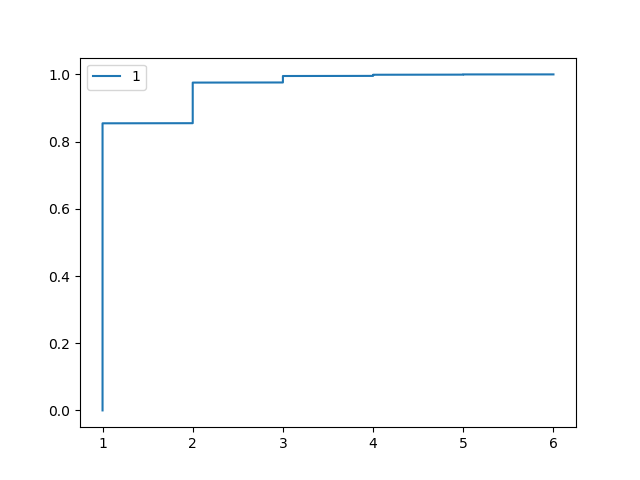
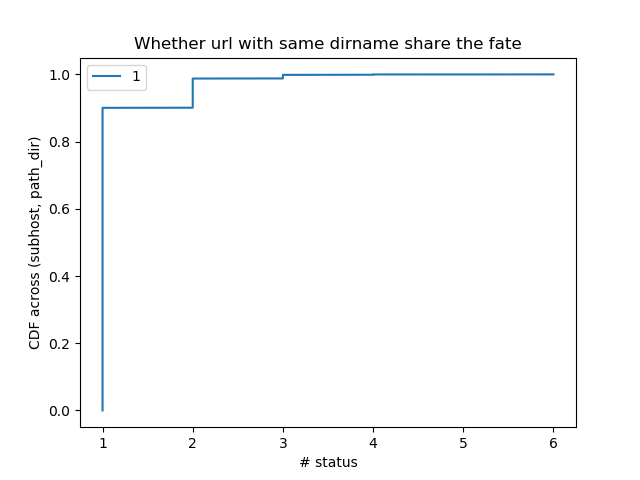
update fate figure

diff --git a/broken_pages/counts.py b/broken_pages/counts.py
@@ -12,6 +12,7 @@ import matplotlib.pyplot as plt
 import whois
 import datetime
 import numpy as np
+import json
 
 sys.path.append('../')
 import config
@@ -591,10 +592,10 @@ def dirname_fate():
         urls = db.url_status_implicit_broken.find({"hostname": host['_id']})
         for url in urls:
             up = urlparse(url['url'])
-            path, query = up.path, up.query
+            subhost, path, query = up.netloc, up.path, up.query
             if path == '': path = '/'
             dirname = os.path.dirname(path)
-            host_fate[dirname].append(url_utils.status_categories(url['status'], url['detail']))
+            host_fate["{}|{}".format(subhost, dirname)].append(url_utils.status_categories(url['status'], url['detail']))
         dir_count = {}
         for dirname, statuss in host_fate.items():
             if len(statuss) >= 3:
@@ -604,8 +605,15 @@ def dirname_fate():
     for hostname, dir_count in fate.items():
         for dirname, statuss in dir_count.items():
             fate_list.append(len(statuss))
+    fate = {h: {d: list(s) for d, s in ds.items() if len(s) > 1} for h, ds in fate.items()}
+    fate = {h: ds for h, ds in fate.items() if len(ds) > 0}
+    json.dump(fate, open('fate.json', 'w+'))
     print(len(fate_list))
-    plot.plot_CDF([fate_list], show=False, savefig='fig/fate.png')
+    plot.plot_CDF([fate_list], show=False)
+    plt.xlabel("# status")
+    plt.ylabel("CDF across (subhost, path_dir)")
+    plt.title("Whether url with same dirname share the fate")
+    plt.savefig('fig/fate.png')
 
 
 

diff --git a/search/broken_search.py b/search/broken_search.py
@@ -27,6 +27,7 @@ idx = config.HOSTS.index(socket.gethostname())
 PS = crawl.ProxySelector(config.PROXIES)
 db = MongoClient(config.MONGO_HOSTNAME).web_decay
 counter = mp.Value('i', 0)
+q_in = mp.Queue()
 
 def get_wayback_cp(url, year):
     """
@@ -145,11 +146,11 @@ def crawl_realweb_wrapper(NUM_THREADS=10):
     Crawl the searched results from the db.search
     Update each record with html (byte) and content
     """
-    q_in = mp.Queue()
     urls = db.search.find({'html': {"$exists": False}})
-    urls = list(urls)
+    urls = sorted(list(urls), key=lambda x: x['url'] + str(x['from']))
     length = len(urls)
-    print(length)
+    print(length // len(config.HOSTS))
+    urls = urls[idx*length//len(config.HOSTS): (idx+1)*length//len(config.HOSTS)]
     random.shuffle(urls)
     for url in urls:
         q_in.put((url['url'], url['from']))
@@ -228,4 +229,4 @@ def calculate_topN():
 
 
 if __name__ == '__main__':
-    crawl_realweb_wrapper(NUM_THREADS=16)
+    crawl_realweb_wrapper(NUM_THREADS=10)
